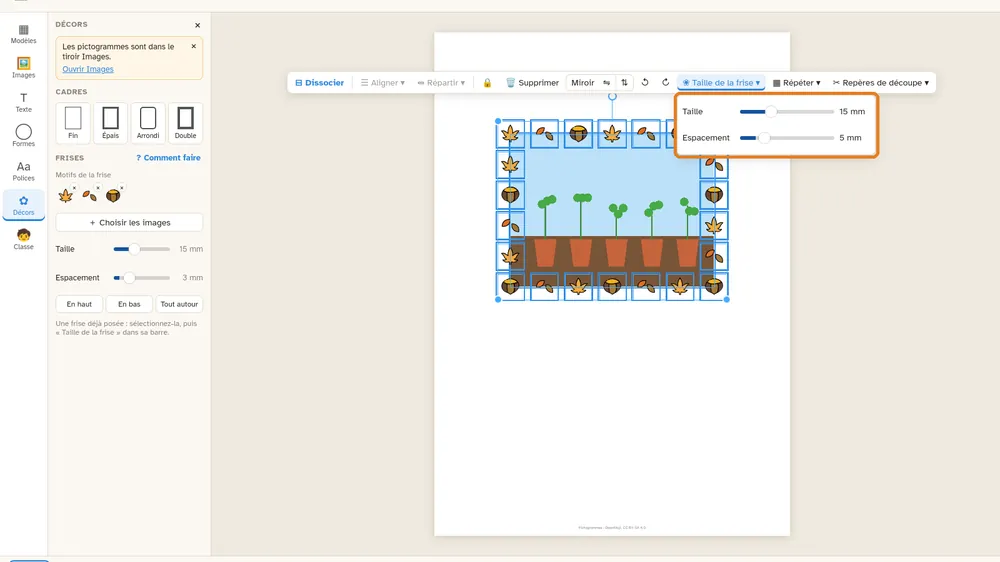
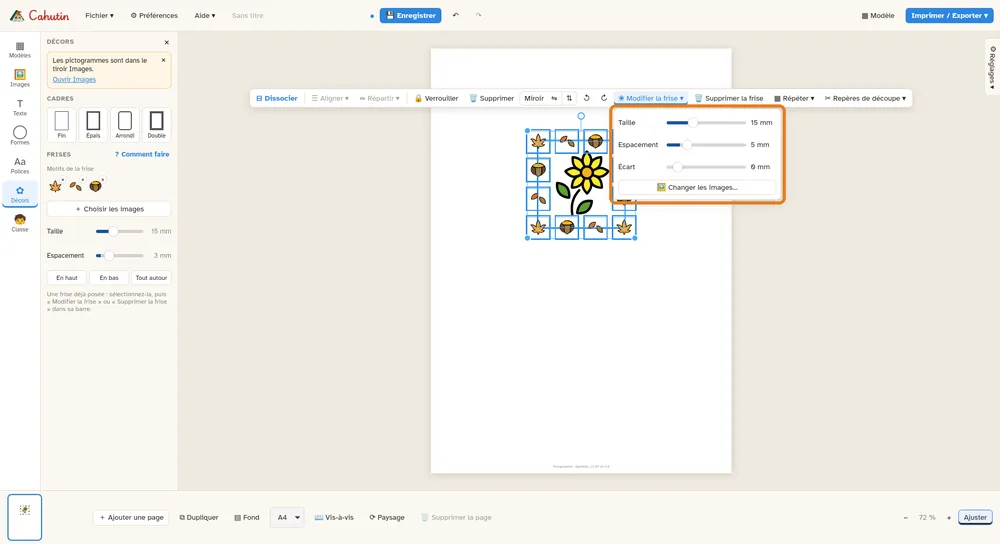
chore: version 0.12.0
What's New for 0.12 with five captures taken in the real application, in a
blank profile (example document and a generated photo only): trimming a
photo, the Settings panel in sections, editing a frieze, the Save button,
the wider Preferences. The changelog section is renamed and ordered new
features first. Two guide captures showed controls that changed and are
retaken the same way: the frieze menu (now « Modifier la frise ») and the
File menu (examples in a submenu).

diff --git a/ui/src/lib/whatsNew.ts b/ui/src/lib/whatsNew.ts
@@ -18,6 +18,36 @@ export interface Release {
 /** De la plus récente à la plus ancienne. */
 export const RELEASES: Release[] = [
   {
+    version: "0.12",
+    items: [
+      {
+        title: "Rogner une photo",
+        text: "Double-cliquez sur une photo : en plus de la glisser et de l'agrandir à la molette, tirez les poignées orange pour couper ses bords. La partie coupée reste visible en transparence. Agrandie ensuite par un coin, la photo garde son recadrage (Maj pour la déformer).",
+        image: "/nouveautes/0.12/rogner.webp",
+      },
+      {
+        title: "Des réglages bien rangés",
+        text: "Le panneau Réglages se range en sections qui se replient d'un clic. Pour une photo, « Recadrage » règle au millimètre ce que coupe chaque bord, l'agrandissement et la position ; « Photo entière » la remontre en entier.",
+        image: "/nouveautes/0.12/reglages.webp",
+      },
+      {
+        title: "Modifier une frise",
+        text: "Cliquez sur une frise : « Modifier la frise » change la taille des images, leur espacement, la marge avec le bord, ou les images elles-mêmes. « Supprimer la frise » la retire, en gardant ce qu'elle entoure.",
+        image: "/nouveautes/0.12/frise.webp",
+      },
+      {
+        title: "Enregistrer en un clic",
+        text: "Le bouton « Enregistrer » est à côté du titre, et le titre devient le nom du fichier. Sous Windows, un double-clic sur un document .carnet ouvre Cahutin.",
+        image: "/nouveautes/0.12/enregistrer.webp",
+      },
+      {
+        title: "Plus confortable",
+        text: "Des Préférences plus larges, sur deux colonnes. La molette fait défiler les pages en bas, Ctrl et la molette zooment, et un texte copié garde sa police et sa taille quand on le colle dans une autre zone.",
+        image: "/nouveautes/0.12/preferences.webp",
+      },
+    ],
+  },
+  {
     version: "0.11",
     items: [
       {

diff --git a/CHANGELOG.md b/CHANGELOG.md
@@ -1,27 +1,27 @@
 # Journal des versions
 
-## Non publié
+## 0.12.0
 
-- La molette de la souris fait défiler la bande des pages, en bas à gauche.
-- Zoom comme dans les autres logiciels : Ctrl et la molette (le point sous la souris reste en place), Ctrl et + ou -, Ctrl et 0 pour « Ajuster ».
-- Une classe se supprime : bouton « Supprimer la classe… » dans la page Ma classe. Après confirmation, elle part dans la corbeille de l'ordinateur, d'où elle se récupère ; les documents déjà faits pour ses élèves ne changent pas.
 - Rogner une photo : en mode Recadrer (bouton « Recadrer » ou double-clic), des poignées orange sur le cadre rognent ses bords, la photo restant en place ; la partie coupée se voit en transparence autour du cadre. Glisser la photo et la molette marchent comme avant ; chaque geste s'annule séparément.
 - Panneau Réglages d'une photo, section « Recadrage » : rognage de chaque bord en mm, « Agrandir dans le cadre » (100 à 500 %), position de gauche à droite et de haut en bas, et « Photo entière », qui retire le rognage (la photo garde sa taille, le cadre s'élargit, sans dépasser la page).
-- Double-clic sur un document .carnet : Cahutin s'ouvre sur ce document. L'installeur Windows (et le paquet du Microsoft Store) associe les fichiers .carnet à Cahutin, et retire l'association à la désinstallation.
-- Bouton « 💾 Enregistrer » à côté du titre du document. Le nom proposé au premier enregistrement est le titre, même tapé à l'instant sans quitter le champ (Ctrl+S proposait alors « Sans titre »).
-- Curseurs des poignées (redimensionner, rogner) : ceux de l'ordinateur, à leur taille habituelle, dans le sens de la poignée même sur un élément tourné, à la place des grosses flèches dessinées. Sous Linux, où certains thèmes n'ont pas les flèches diagonales, une flèche double dessinée les remplace, de la même taille sur un écran avec ou sans mise à l'échelle.
-- Pendant l'écriture, un passage dans une police dont le nom contient un chiffre seul, un point ou une parenthèse (« Cursive 2 ») s'affichait dans la police de la zone ; il garde maintenant sa police.
-- Barre d'un groupe : une fois le groupe verrouillé, le bouton devient « 🔓 Déverrouiller » (il restait « Verrouiller »). La barre et le panneau Réglages suivent la même règle : « Déverrouiller » quand tout le groupe est verrouillé, « Verrouiller » sinon.
-- Copier un passage d'un texte et le coller dans une autre zone garde sa mise en forme : police, taille, couleur, gras, italique, souligné, même quand elles venaient de la zone d'origine. Un texte copié hors de Cahutin reste collé sans mise en forme.
-- Frise posée : dans sa barre, « Modifier la frise » règle la taille des images, leur espacement et la distance au bord (la marge avec la page, ou l'écart avec le bloc qu'elle entoure), et « Changer les images… » met d'autres images à la même place ; « Supprimer la frise » la retire seule, en gardant le bloc qu'elle entourait.
-- La poignée de rotation est plus près de l'élément, et la barre au-dessus ne la recouvre plus, même sur un petit élément.
 - Agrandir ou réduire une photo par ses poignées garde ses proportions, donc son rognage, son zoom et son recadrage ; avec Maj enfoncée, elle se redimensionne librement. Pour les formes et les textes, rien ne change (Maj garde les proportions).
-- Version Linux : après avoir relâché Maj, le redimensionnement restait libre et la rotation sans crans. Maj relâchée est maintenant bien prise en compte (et oubliée si l'on quitte la fenêtre en la tenant).
-- Recadrer en glissant la photo ne l'emporte plus parfois comme une image de navigateur (image fantôme semi-transparente).
+- Frise posée : dans sa barre, « Modifier la frise » règle la taille des images, leur espacement et la distance au bord (la marge avec la page, ou l'écart avec le bloc qu'elle entoure), et « Changer les images… » met d'autres images à la même place ; « Supprimer la frise » la retire seule, en gardant le bloc qu'elle entourait.
+- Bouton « 💾 Enregistrer » à côté du titre du document. Le nom proposé au premier enregistrement est le titre, même tapé à l'instant sans quitter le champ (Ctrl+S proposait alors « Sans titre »).
+- Double-clic sur un document .carnet : Cahutin s'ouvre sur ce document. L'installeur Windows (et le paquet du Microsoft Store) associe les fichiers .carnet à Cahutin, et retire l'association à la désinstallation.
 - Panneau Réglages rangé en sections qui se replient d'un clic sur leur titre : « Position et taille », « Miroir et ordre », « Recadrage » (photo), « Apparence » (photo, forme), « Mise en forme » (texte). Au départ, Miroir et ordre et Recadrage sont repliés ; chaque section reste ensuite comme on l'a laissée, sur cet ordinateur.
 - Préférences plus larges, à la taille de l'écran : sur un grand écran, les réglages se rangent en deux colonnes et tiennent sans défiler.
 - Menu Fichier : les exemples sont rangés dans un sous-menu « Exemples ▸ », qui s'ouvre au survol ou au clic.
+- La molette de la souris fait défiler la bande des pages, en bas à gauche.
+- Zoom comme dans les autres logiciels : Ctrl et la molette (le point sous la souris reste en place), Ctrl et + ou -, Ctrl et 0 pour « Ajuster ».
+- Copier un passage d'un texte et le coller dans une autre zone garde sa mise en forme : police, taille, couleur, gras, italique, souligné, même quand elles venaient de la zone d'origine. Un texte copié hors de Cahutin reste collé sans mise en forme.
+- Une classe se supprime : bouton « Supprimer la classe… » dans la page Ma classe. Après confirmation, elle part dans la corbeille de l'ordinateur, d'où elle se récupère ; les documents déjà faits pour ses élèves ne changent pas.
+- Curseurs des poignées (redimensionner, rogner) : ceux de l'ordinateur, à leur taille habituelle, dans le sens de la poignée même sur un élément tourné, à la place des grosses flèches dessinées. Sous Linux, où certains thèmes n'ont pas les flèches diagonales, une flèche double dessinée les remplace, de la même taille sur un écran avec ou sans mise à l'échelle.
+- La poignée de rotation est plus près de l'élément, et la barre au-dessus ne la recouvre plus, même sur un petit élément.
+- Barre d'un groupe : une fois le groupe verrouillé, le bouton devient « 🔓 Déverrouiller » (il restait « Verrouiller »). La barre et le panneau Réglages suivent la même règle : « Déverrouiller » quand tout le groupe est verrouillé, « Verrouiller » sinon.
 - Accueil, clic droit sur un document récent : « Ouvrir », « Retirer de la liste » et « Supprimer le fichier… » ne faisaient rien. Ils marchent.
+- Version Linux : après avoir relâché Maj, le redimensionnement restait libre et la rotation sans crans. Maj relâchée est maintenant bien prise en compte (et oubliée si l'on quitte la fenêtre en la tenant).
+- Recadrer en glissant la photo ne l'emporte plus parfois comme une image de navigateur (image fantôme semi-transparente).
+- Pendant l'écriture, un passage dans une police dont le nom contient un chiffre seul, un point ou une parenthèse (« Cursive 2 ») s'affichait dans la police de la zone ; il garde maintenant sa police.
 - La mise à la corbeille d'un document (ou d'une classe) qui échoue est notée dans le journal de l'application, avec la sorte d'erreur.
 
 ## 0.11.0
